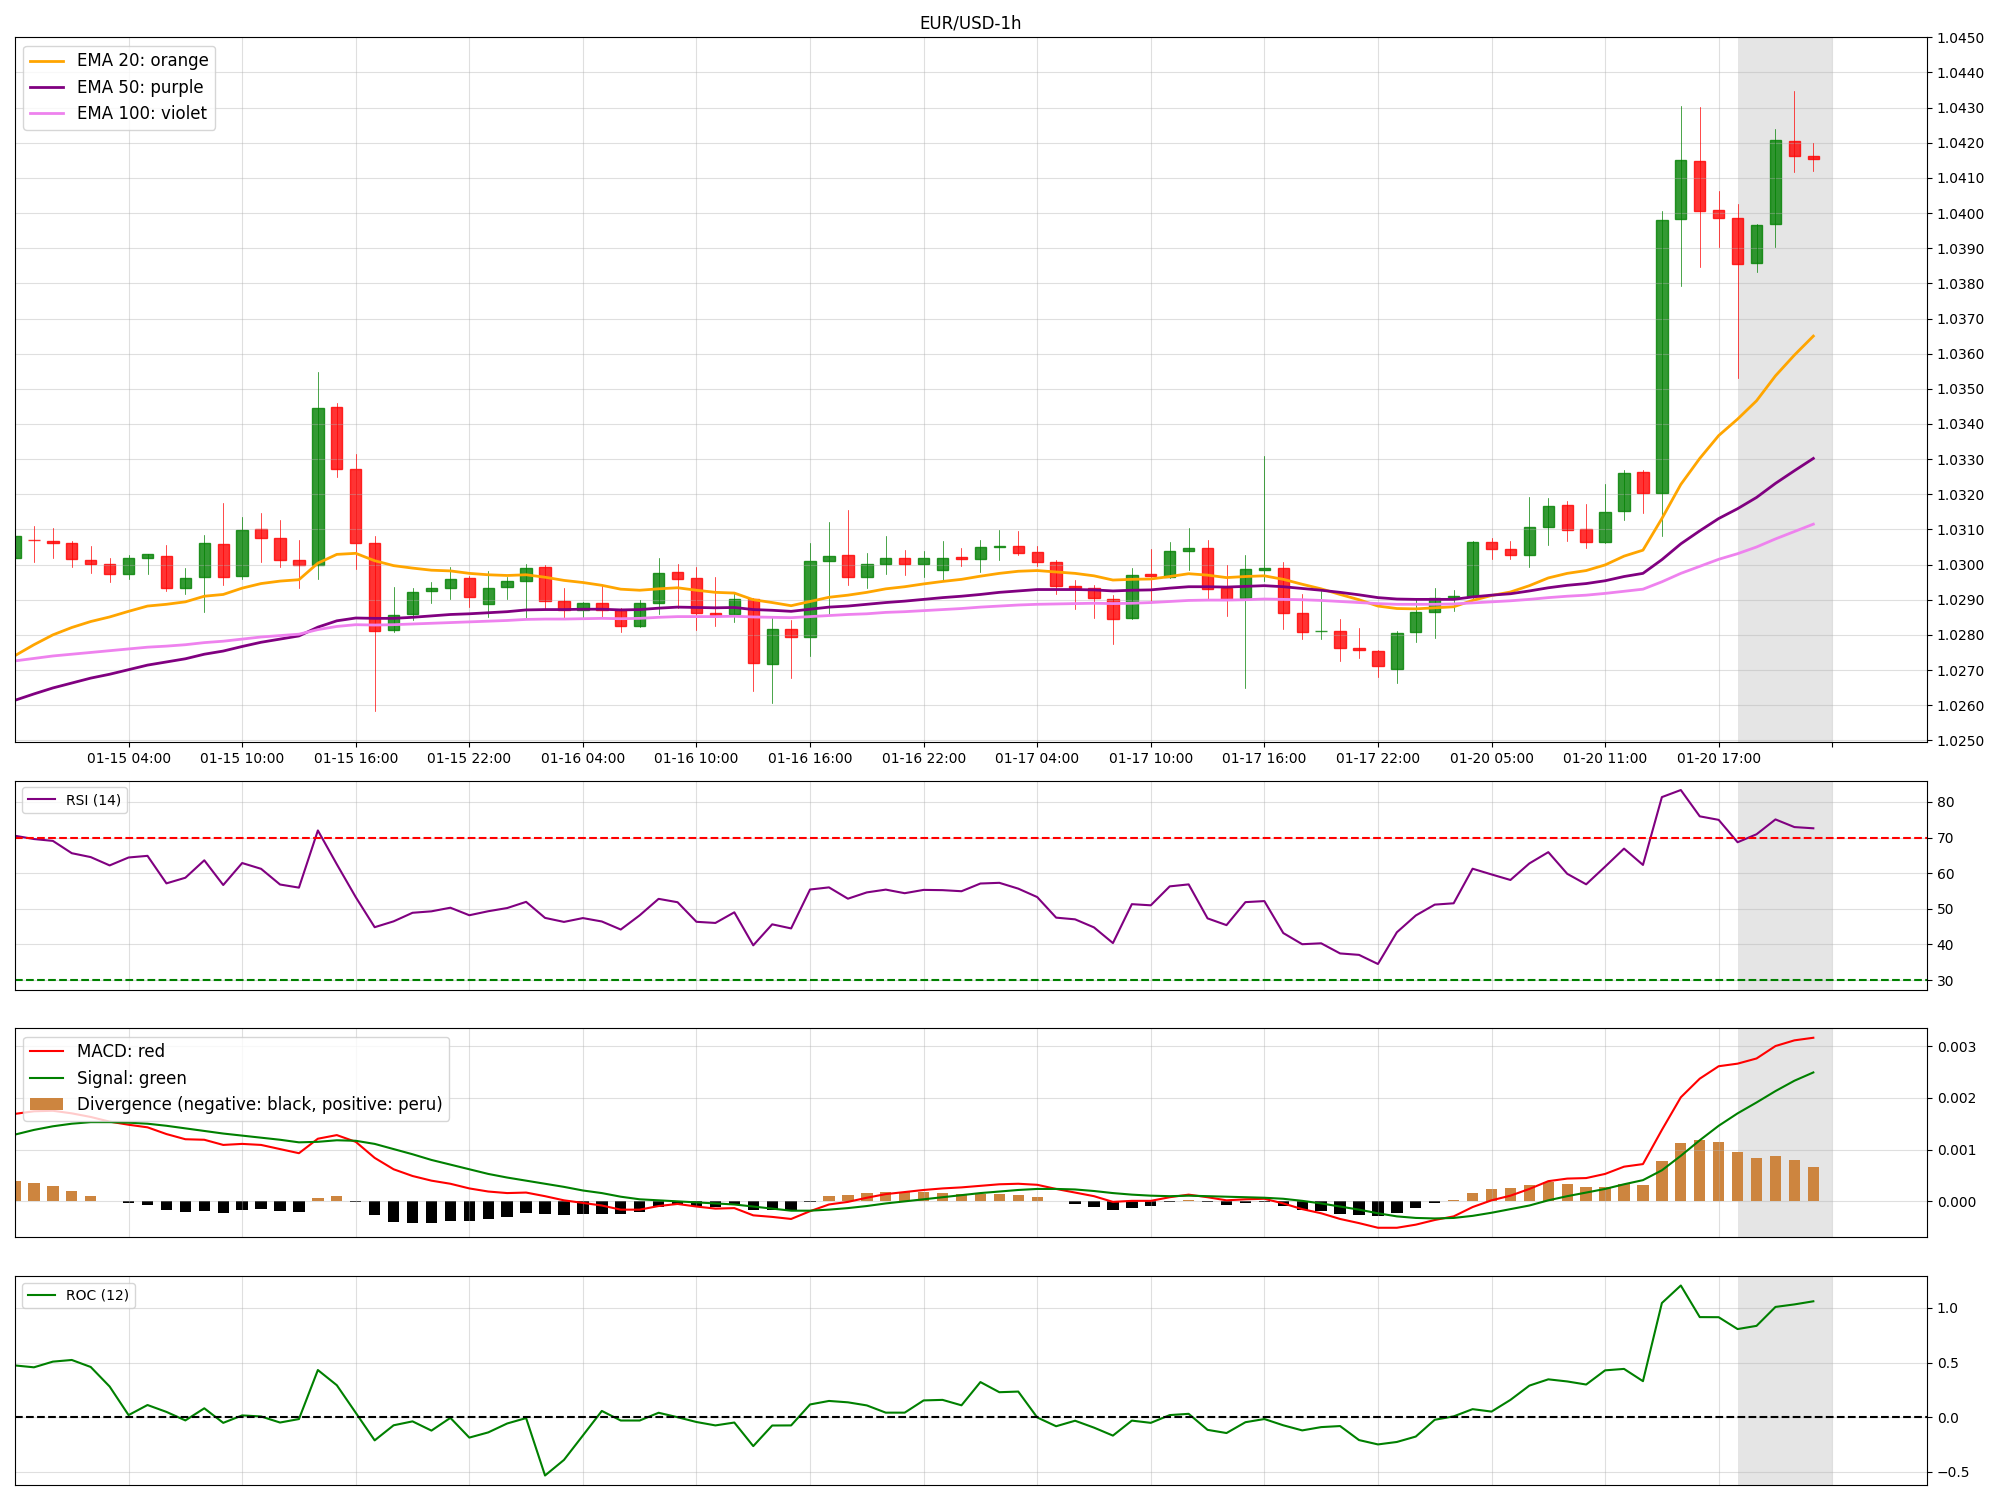
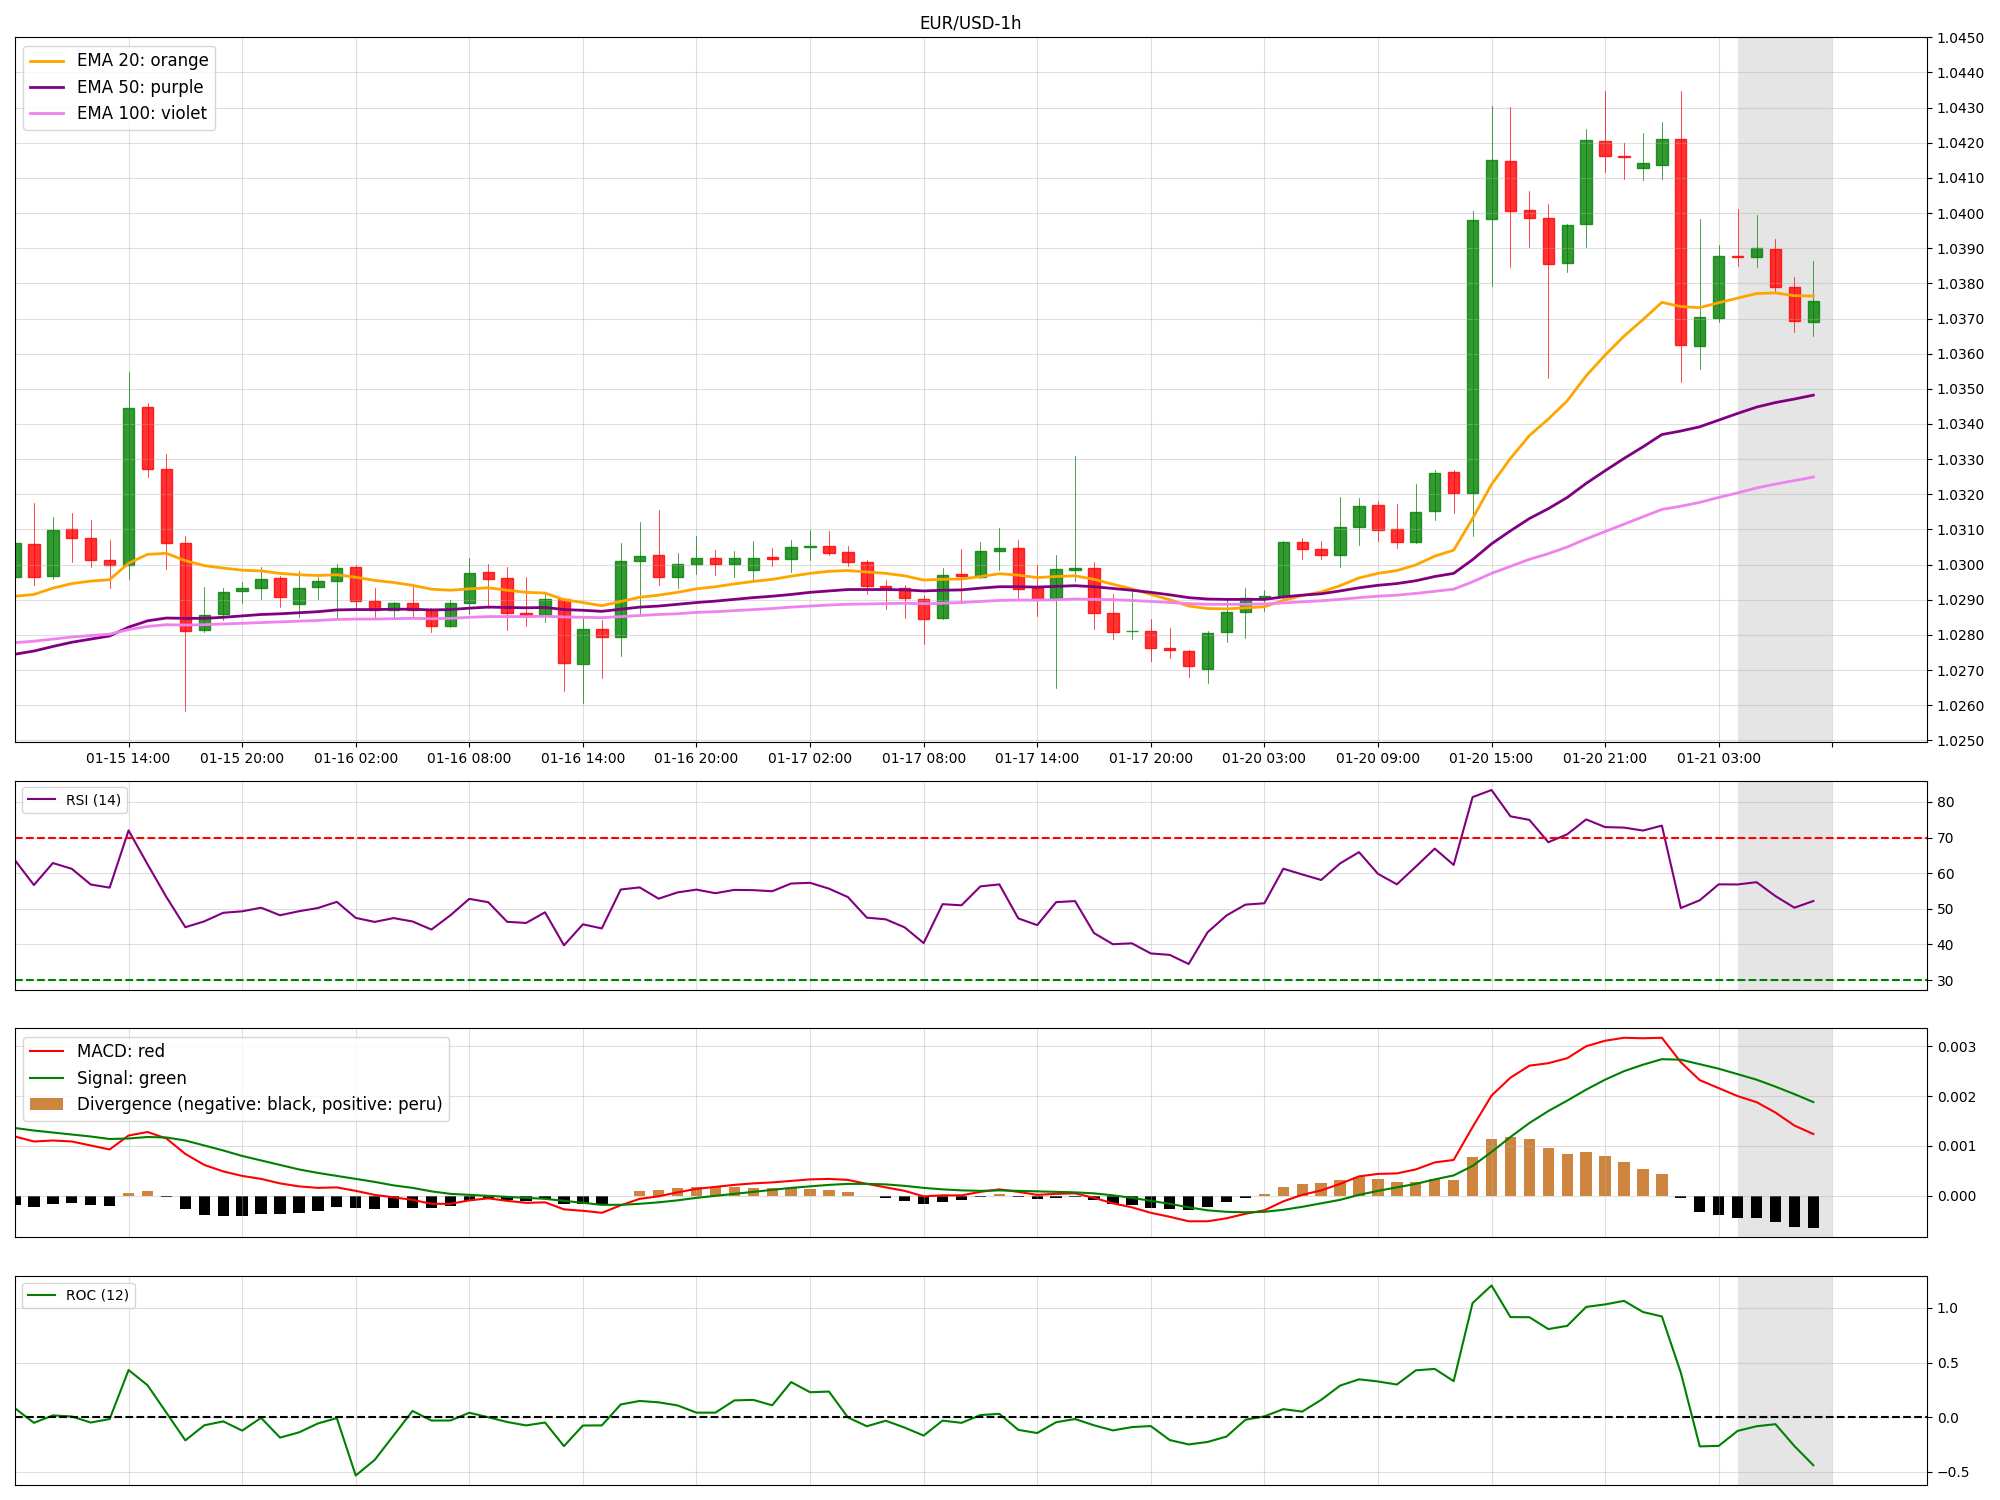
Updated chart functionality

diff --git a/app.py b/app.py
@@ -64,7 +64,7 @@ def main():
             index=0
         )
 
-        run_process = st.sidebar.button("Run")
+        run_process = st.sidebar.button("Live Market Update")
         if run_process or st.session_state["process_initialized"]:
             if run_process:
                 st.session_state["process_initialized"] = True
@@ -96,7 +96,13 @@ def main():
             chart, chat = st.columns(2)
             with chart:
                 with st.container(height=350, border=True):
-                    st.bar_chart(np.random.randn(50, 3))
+                    tab1, tab2, tab3 = st.tabs(["5 minutes", "1 Hour", "4 Hours"])
+                    with tab1:
+                        st.image("data/chart/5min.png")
+                    with tab2:
+                        st.image("data/chart/1h.png")
+                    with tab3:
+                        st.image("data/chart/4h.png")
 
 
             agent = FXAgent(model_name=st.session_state["last_model_choice"], currency_pair=st.session_state["last_currency_pair"])
